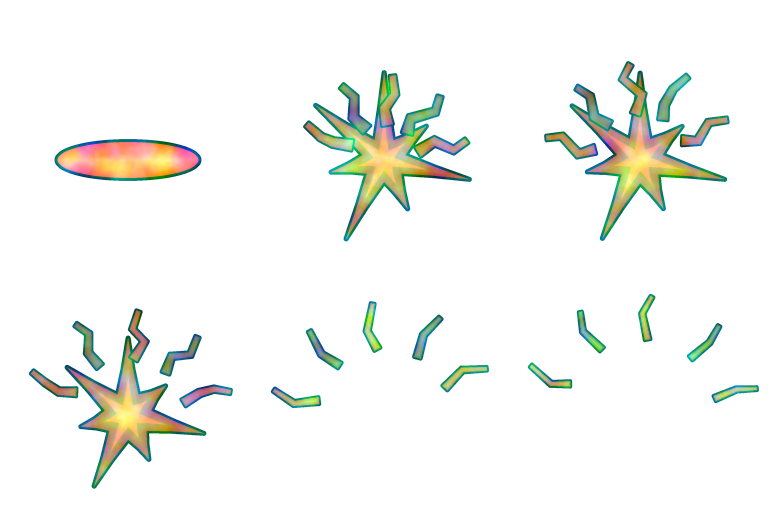
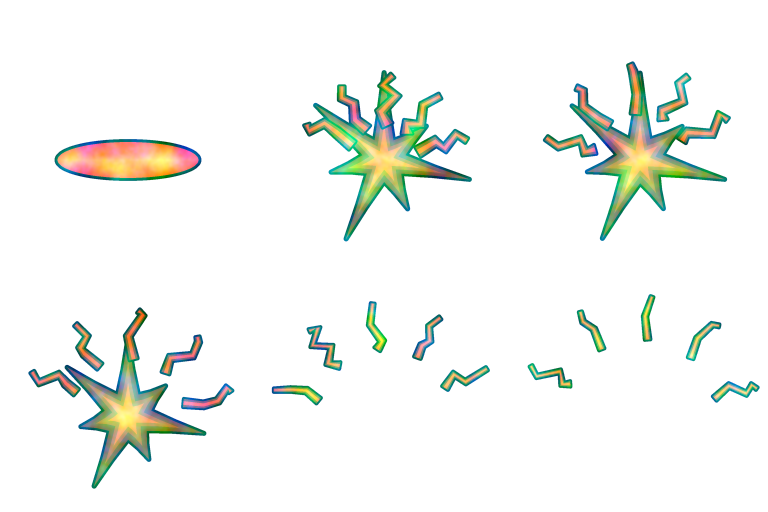
feat(fx): lightning in electric lime with a white-hot core, split from the air look
The storm palette row (fx_palette wind, elements.LOOK.wind) moves from the one
green it shared with the wind to lime round a white-hot core: picked over
yellow-white, which sat on the hit star's yellow and the hot words. bolt_strip
and storm_burst redrawn with a saturated rim, a light band and a fat hot core
(was a pale body), so every comic_bolt / DESIGNED.bolt (Live Wire, Grounded,
Storm Pitch, Cataclysm and the combo-lightning lane's new bolts) reads as
charge against the pale air. comic_bolt.spawn's signature is unchanged.

diff --git a/tools/vfx_gen/gen_designed.py b/tools/vfx_gen/gen_designed.py
@@ -459,6 +459,7 @@ def bolt_strip(i, n, size):
     w = h * 0.3
     body = stroke(main, lambda q: w * (0.75 + 0.25 * math.sin(q * 9 + i)), cap=False)
     forks = []
+    fork_paths = []
     for k in range(3):
         j = 2 + k * 3 + (i % 2)
         if j >= len(main) - 1:
@@ -469,9 +470,15 @@ def bolt_strip(i, n, size):
         fp = jag_path(a, b, S / 30, 0.5, 140 + i * 5 + k)
         fp[:, 1] = np.clip(fp[:, 1], y0 + 3, y0 + h - 3)
         forks.append(stroke(fp, lambda q: w * 0.45 * (1 - q) + 1.5, cap=False))
+        fork_paths.append(fp)
+    # fx-air: electric, not pale. A saturated rim (body) round a light band and a fat white-hot core, so the bolt
+    # reads as charge against the pale air and the violet tentacle; the forks get a light core.
     m = poly_mask([body] + forks, S)
-    f.fill(m, LIGHT, ink=2.5)
-    core = stroke(main, lambda q: w * 0.32, cap=False)
+    f.fill(m, BODY, ink=2.5)
+    for fp in fork_paths:
+        f.fill(poly_mask([stroke(fp, lambda q: w * 0.2 * (1 - q) + 1.0, cap=False)], S) * m, LIGHT)
+    f.fill(poly_mask([stroke(main, lambda q: w * 0.5 * (0.8 + 0.2 * math.sin(q * 9 + i)), cap=False)], S) * m, LIGHT)
+    core = stroke(main, lambda q: w * 0.3 * (0.8 + 0.2 * math.sin(q * 9 + i)), cap=False)
     f.fill(poly_mask([core], S), HOT)
     tone, alpha, _ = f.finish()
     s2 = size * 2
@@ -495,15 +502,17 @@ def storm_burst(i, n, size):
     r = f.u(lerp(0.62, 0.75, ease_out(t)))
     if t < 0.7:
         tips = [r * (1.0 if s % 2 == 0 else 0.62) * (1 - 0.6 * max(0, t - 0.3)) for s in range(k)]
-        f.poly(star(c, cy, tips, r * 0.25, rot=-math.pi / 2, bow=0.1, n_edge=2), LIGHT, ink=2.5)
-        f.poly(star(c, cy, [x * 0.5 for x in tips], r * 0.12, rot=-math.pi / 2, bow=0.1, n_edge=2), HOT)
+        f.poly(star(c, cy, tips, r * 0.25, rot=-math.pi / 2, bow=0.1, n_edge=2), BODY, ink=2.5)
+        f.poly(star(c, cy, [x * 0.68 for x in tips], r * 0.17, rot=-math.pi / 2, bow=0.1, n_edge=2), LIGHT)
+        f.poly(star(c, cy, [x * 0.42 for x in tips], r * 0.11, rot=-math.pi / 2, bow=0.1, n_edge=2), HOT)
     for s in range(5):  # arcs crawling outward
         a = -math.pi / 2 + (s - 2) * 0.62 + (0.1 if i % 2 else -0.1)
         r0 = r * lerp(0.3, 0.8, t)
         r1 = r * lerp(0.9, 1.25, t)
         p = jag_path(polar(0, r0, a), polar(0, r1, a), f.u(0.12), 0.6, 150 + s + i * 9)
         p = p + np.array([c, cy])
-        f.poly(stroke(p, lambda q: f.u(lerp(0.09, 0.04, t)) * (1 - 0.5 * q) + 2, cap=False), BODY if s % 2 else LIGHT, ink=2.0)
+        am = f.poly(stroke(p, lambda q: f.u(lerp(0.09, 0.04, t)) * (1 - 0.5 * q) + 2, cap=False), BODY, ink=2.0)
+        f.fill(poly_mask([stroke(p, lambda q: f.u(lerp(0.04, 0.018, t)) * (1 - 0.5 * q) + 1, cap=False)], S) * am, HOT)
     return f.finish()
 
 

diff --git a/tools/vfx_gen/vfxlib.py b/tools/vfx_gen/vfxlib.py
@@ -290,6 +290,8 @@ PALETTES = {
     "water": [(0.02, 0.04, 0.12), (0.12, 0.36, 0.78), (0.42, 0.78, 1.0), (0.88, 0.97, 1.0), (1.0, 1.0, 1.0)],
     "wind": [(0.02, 0.07, 0.05), (0.04, 0.42, 0.26), (0.18, 0.86, 0.46), (0.82, 1.0, 0.76), (1.0, 1.0, 0.9)],
     "void": [(0.03, 0.01, 0.06), (0.3, 0.1, 0.56), (0.62, 0.3, 1.0), (1.0, 0.52, 0.95), (1.0, 0.86, 1.0)],
+    "boltA": [(0.04, 0.06, 0.0), (0.3, 0.55, 0.02), (0.72, 1.0, 0.14), (0.94, 1.0, 0.6), (1.0, 1.0, 0.94)],
+    "boltB": [(0.08, 0.05, 0.0), (0.72, 0.45, 0.0), (1.0, 0.86, 0.12), (1.0, 0.97, 0.62), (1.0, 1.0, 0.96)],
     "air": [(0.06, 0.1, 0.16), (0.45, 0.62, 0.72), (0.8, 0.93, 0.95), (0.95, 1.0, 0.98), (1.0, 1.0, 1.0)],
     "dust": [(0.08, 0.04, 0.06), (0.55, 0.47, 0.42), (0.78, 0.7, 0.6), (0.95, 0.9, 0.8), (1.0, 0.98, 0.92)],
     "gold": [(0.08, 0.04, 0.01), (0.82, 0.48, 0.08), (1.0, 0.78, 0.3), (1.0, 0.93, 0.66), (1.0, 1.0, 0.9)],
